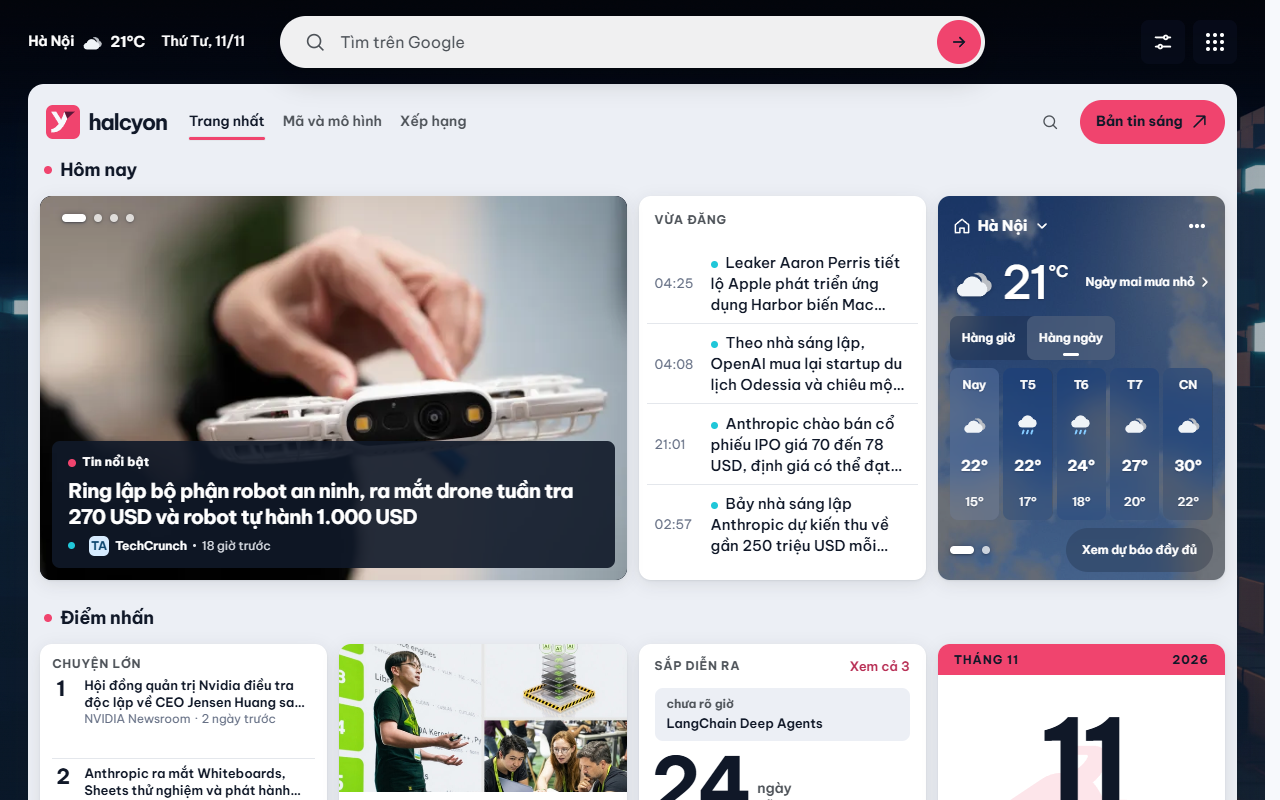
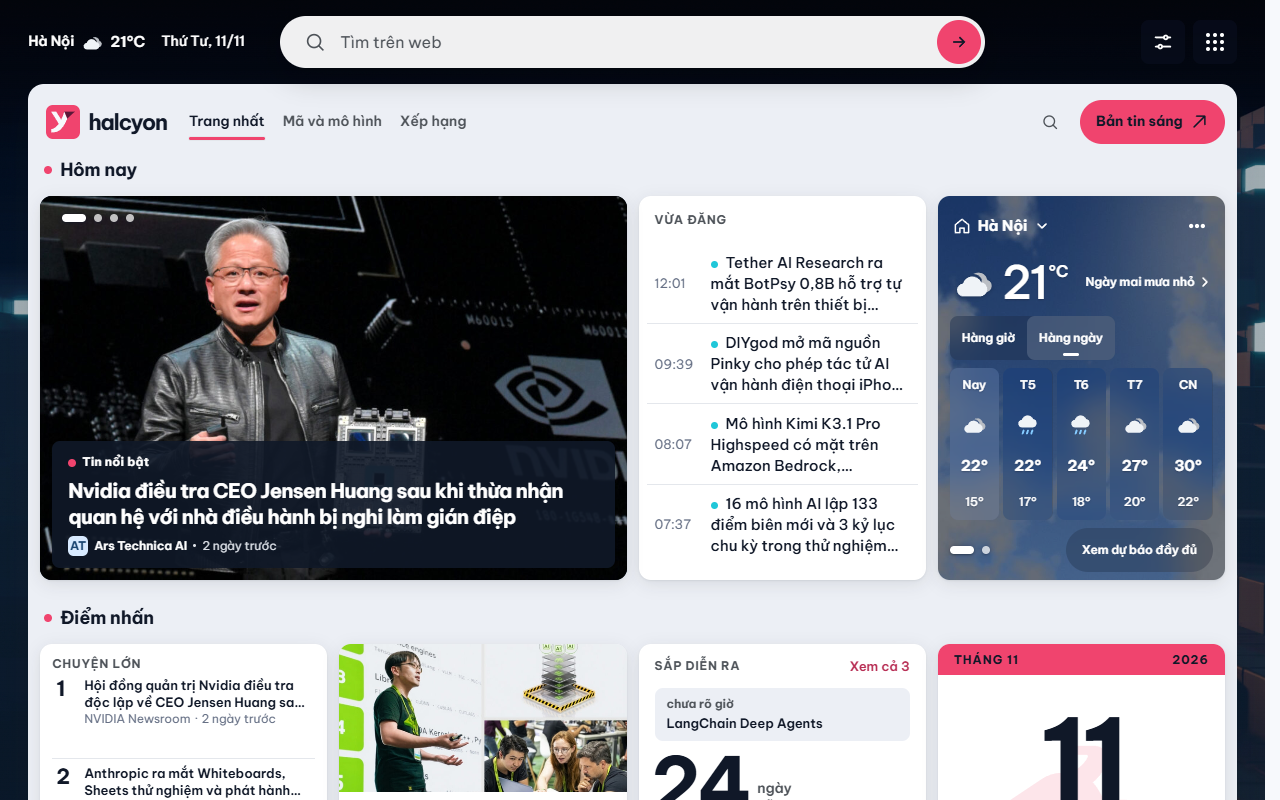
fix(extension): search with the reader's default engine via chrome.search
The Chrome Web Store rejects a new tab page whose search ignores the user's
search settings and asks such pages to use the Chrome Search API. The new
tab's box now calls chrome.search.query with CURRENT_TAB, the manifest asks
for "search" again, and the box reads "Tìm trên web" instead of naming
Google. Outside an extension page the box does nothing rather than fall back
to an engine the reader never chose.

Store texts, the privacy policy and the screenshots follow; the listing's
dark mode line points at the Tùy chỉnh menu and the data disclosure names
github.com for owner logos.

Changed region(s): [[0.0312, 0.2188, 0.7188, 0.75], [0.5625, 0.625, 0.6875, 0.6875], [0.3125, 0.0312, 0.375, 0.0625]]

diff --git a/site/chinh-sach-rieng-tu.html b/site/chinh-sach-rieng-tu.html
@@ -183,7 +183,7 @@
       <ul>
         <li><strong>Thông tin nhận dạng cá nhân (PII):</strong> Không yêu cầu tên, địa chỉ email, số điện thoại hay tài khoản cá nhân.</li>
         <li><strong>Lịch sử duyệt web (Browsing History):</strong> Tiện ích không đọc hoặc theo dõi các tab bạn mở hay trang web bạn ghé thăm.</li>
-        <li><strong>Truy vấn tìm kiếm:</strong> Ô "Tìm trên Google" trên tab mới mở trang kết quả của Google (<code>www.google.com/search</code>) ngay trong tab đó, với từ khóa bạn gõ. Từ khóa đi thẳng từ trình duyệt của bạn tới Google; Halcyon không ghi lại, không lưu và không chuyển tiếp từ khóa tìm kiếm.</li>
+        <li><strong>Truy vấn tìm kiếm:</strong> Ô "Tìm trên web" trên tab mới chuyển từ khóa bạn gõ cho Chrome qua Chrome Search API (<code>chrome.search.query</code>, quyền <code>search</code>), và Chrome tìm bằng công cụ tìm kiếm mặc định bạn đã chọn, ngay trong tab đó. Halcyon không xem, không ghi lại, không lưu và không chuyển tiếp từ khóa tìm kiếm.</li>
         <li><strong>Vị trí địa lý &amp; Thiết bị:</strong> Không thu thập tọa độ GPS hay thông tin nhận dạng phần cứng.</li>
         <li><strong>Dữ liệu tài chính, y tế hoặc giao dịch:</strong> Hoàn toàn không liên quan và không thu thập.</li>
       </ul>
@@ -203,6 +203,7 @@
       <ul>
         <li><strong><code>storage</code>:</strong> Dùng để lưu trữ bộ nhớ đệm tin tức AI và tùy chọn giao diện cục bộ trên máy bạn.</li>
         <li><strong><code>alarms</code>:</strong> Dùng để đặt lịch ngầm mỗi 30 phút đánh thức tiến trình nền làm mới bản tin tin tức, tránh chạy nền liên tục ngốn pin và RAM.</li>
+        <li><strong><code>search</code>:</strong> Chỉ dùng cho ô "Tìm trên web" trên tab mới: khi bạn gửi từ khóa, tiện ích gọi <code>chrome.search.query</code> để Chrome tìm bằng công cụ tìm kiếm mặc định của bạn, ngay trong tab đó. Halcyon không chọn, không đổi và không chuyển hướng nhà cung cấp tìm kiếm.</li>
         <li><strong>Quyền máy chủ (<code>https://radar-ai-vn.pages.dev/*</code>):</strong> Chỉ dùng để tải về dữ liệu tin tức công khai dạng JSON và hình ảnh minh họa bài viết từ máy chủ tĩnh chính thức của Halcyon.</li>
       </ul>
 
@@ -222,7 +223,7 @@
         <li><strong><code>creativecommons.org</code>:</strong> liên kết giấy phép ghi công dữ liệu Arena.</li>
         <li><strong>Máy chủ ảnh của nhà xuất bản:</strong> nhiều ảnh minh họa tin được tải thẳng từ máy chủ của nguồn tin gốc (xem mục 6).</li>
       </ul>
-      <p>Halcyon không đính kèm thông tin cá nhân hoặc lịch sử duyệt web vào các yêu cầu này. Tiện ích không thu thập, tải lên, bán hoặc chia sẻ dữ liệu cá nhân. Từ khóa tìm kiếm được gửi trực tiếp từ trình duyệt của bạn tới Google.</p>
+      <p>Halcyon không đính kèm thông tin cá nhân hoặc lịch sử duyệt web vào các yêu cầu này. Tiện ích không thu thập, tải lên, bán hoặc chia sẻ dữ liệu cá nhân. Từ khóa tìm kiếm do Chrome gửi tới công cụ tìm kiếm mặc định của bạn, không qua Halcyon.</p>
 
       <h2>6. Website hco.news: Máy Chủ, Thống Kê Truy Cập Và Ảnh Minh Họa</h2>
       <ul>
@@ -270,7 +271,7 @@
       <ul>
         <li><strong>Personally Identifiable Information (PII):</strong> No names, email addresses, phone numbers, or account registrations required.</li>
         <li><strong>Browsing History:</strong> The extension does not inspect, read, or log the websites you visit or the tabs you open.</li>
-        <li><strong>Search Queries:</strong> The "Tìm trên Google" (Search Google) field on the new tab page opens Google's results page (<code>www.google.com/search</code>) in that tab with the words you typed. The query goes straight from your browser to Google; we do not inspect, log, store, or forward your queries.</li>
+        <li><strong>Search Queries:</strong> The "Tìm trên web" (Search the web) field on the new tab page hands the words you typed to Chrome through the Chrome Search API (<code>chrome.search.query</code>, the <code>search</code> permission), and Chrome searches with your own default search engine in that tab. We do not see, log, store, or forward your queries.</li>
         <li><strong>Location &amp; Device Data:</strong> No geolocation tracking, no biometric data, and no unique hardware fingerprinting.</li>
         <li><strong>Financial or Health Data:</strong> None collected.</li>
       </ul>
@@ -290,6 +291,7 @@
       <ul>
         <li><strong><code>storage</code>:</strong> Stores the cached news snapshot and theme preferences locally in <code>chrome.storage.local</code>.</li>
         <li><strong><code>alarms</code>:</strong> Schedules a 30-minute background alarm to refresh the news feed without running a persistent background process, conserving memory and battery.</li>
+        <li><strong><code>search</code>:</strong> Used only by the new tab's "Tìm trên web" field: when you submit a query, the extension calls <code>chrome.search.query</code> so Chrome searches with your own default search engine in that tab. Halcyon does not choose, change, or redirect the search provider.</li>
         <li><strong>Host Permission (<code>https://radar-ai-vn.pages.dev/*</code>):</strong> Exclusively fetches static JSON news feeds and story illustration images from Halcyon's official Cloudflare Pages hosting.</li>
       </ul>
 
@@ -309,7 +311,7 @@
         <li><strong><code>creativecommons.org</code>:</strong> attribution license link for Arena data.</li>
         <li><strong>Publishers' image servers:</strong> many story pictures load directly from the original publisher's servers (see section 6).</li>
       </ul>
-      <p>Halcyon does not attach personal information or browsing history to these requests. The extension does not collect, upload, sell, or share personal data. Search terms are sent directly from your browser to Google.</p>
+      <p>Halcyon does not attach personal information or browsing history to these requests. The extension does not collect, upload, sell, or share personal data. Search terms are sent by Chrome to your default search engine, not through Halcyon.</p>
 
       <h2>6. The hco.news Website: Hosting, Visit Statistics, and Pictures</h2>
       <ul>

diff --git a/extension/newtab.html b/extension/newtab.html
@@ -80,7 +80,7 @@
   <symbol id="i-tune" viewBox="0 0 24 24"><path d="M4 7h9M17 7h3M4 17h3M11 17h9"/><circle cx="15" cy="7" r="2"/><circle cx="9" cy="17" r="2"/></symbol>
 </svg>
 
-<!-- The top row (owner, 09/11): the Google search with the 9 dots at its right, on the website's own top-row grid
+<!-- The top row (owner, 09/11): the web search with the 9 dots at its right, on the website's own top-row grid
      (.msn-top-in), so the row and the panel below it share their left and right edges. The seven Google shortcut icons
      are gone: the 9 dots open the same services. The weather and the calendar are cards in the panel's first row
      (thoi-tiet.js, the-lich.js); the weather and the day also sit at the top left and "Tùy chỉnh" beside the 9 dots,
@@ -88,12 +88,12 @@
 <header class="masthead msn-top" id="masthead">
   <div class="msn-top-in">
     <div class="top-now" id="top-now"></div>
-    <form id="web-search" class="web-search" role="search" aria-label="Tìm trên Google" action="https://www.google.com/search">
+    <form id="web-search" class="web-search" role="search" aria-label="Tìm trên web">
       <label class="web-field">
         <svg class="i" aria-hidden="true"><use href="#i-search"/></svg>
-        <span class="sr">Tìm trên Google</span>
-        <input id="web-query" name="q" type="search" placeholder="Tìm trên Google" autocomplete="off" enterkeyhint="search">
-        <button class="go-btn" type="submit" aria-label="Tìm trên Google"><svg class="i" aria-hidden="true"><use href="#i-arrow"/></svg></button>
+        <span class="sr">Tìm trên web</span>
+        <input id="web-query" name="q" type="search" placeholder="Tìm trên web" autocomplete="off" enterkeyhint="search">
+        <button class="go-btn" type="submit" aria-label="Tìm trên web"><svg class="i" aria-hidden="true"><use href="#i-arrow"/></svg></button>
       </label>
     </form>
     <div class="masthead-actions">

diff --git a/extension/newtab.js b/extension/newtab.js
@@ -1,10 +1,11 @@
-/* "Tìm trên Google" (captain, 07/11 18:26: "không đặt tìm kiếm web mà là tìm kiếm google luôn"): the query opens
-   Google's results in this tab, whatever the reader's default engine is. A plain link needs no permission. */
-export const googleSearchURL = query => `https://www.google.com/search?q=${encodeURIComponent(query)}`;
+/* "Tìm trên web": the query goes to the reader's own default search engine through the Chrome Search API, in this
+   tab. The Chrome Web Store rejects a new tab whose search ignores the user's search settings (Quality Guidelines,
+   checked 11/11), so the box no longer opens Google directly as it did from 07/11. Outside an extension page there is
+   no chrome.search and the box does nothing: any fallback would have to name an engine the reader never chose. */
 document.querySelector('#web-search').addEventListener('submit', event => {
   event.preventDefault();
-  const query = document.querySelector('#web-query').value.trim();
-  if (query) location.assign(googleSearchURL(query));
+  const text = document.querySelector('#web-query').value.trim();
+  if (text && globalThis.chrome?.search?.query) chrome.search.query({text, disposition: 'CURRENT_TAB'});
 });
 
 let initialSnapshotKnown = false;

diff --git a/extension/newtab.css b/extension/newtab.css
@@ -1,6 +1,6 @@
 /* The new tab's top zone above the Halcyon panel (captain, 07/11 18:03; mockup D chosen 18:26; Mẫu A 08/11 18:23):
    1. the 9 dots at the top right, with every Google app behind them;
-   2. the Google search ("Tìm trên Google", a filled field with no border and no shadow), which plays the part of MSN's
+   2. the web search ("Tìm trên web", the reader's default engine; a filled field with no border and no shadow), which plays the part of MSN's
       search bar above the panel.
    The panel below is the website home's (trang-msn.css): the logo, the sections, the news search, the morning edition,
    then the grid with the weather and the calendar. This file is extension-only. Values come from tokens.css. */

diff --git a/tests/test_extension_shell.py b/tests/test_extension_shell.py
@@ -44,7 +44,7 @@ class ExtensionShellTests(unittest.TestCase):
         manifest = json.loads((EXT / 'manifest.json').read_text(encoding='utf-8'))
         self.assertEqual(manifest['manifest_version'], 3)
         self.assertEqual(manifest['chrome_url_overrides'], {'newtab': 'newtab.html'})
-        self.assertEqual(set(manifest['permissions']), {'storage', 'alarms'})
+        self.assertEqual(set(manifest['permissions']), {'storage', 'alarms', 'search'})
         self.assertEqual(manifest['host_permissions'], [LIVE + '*'])
         self.assertEqual(manifest['background']['service_worker'], 'background.js')
         self.assertIn('tìm kiếm', manifest['description'].lower())
@@ -234,28 +234,55 @@ process.stdout.write(JSON.stringify({saved,afterOffline,afterTimeout:cache.radar
         })
 
     @unittest.skipUnless(shutil.which('node'), 'Node required for JavaScript behavior tests')
-    def test_search_goes_to_google(self):
-        # Captain, 07/11 18:26: "tìm kiếm google luôn": the query opens Google's results in this tab, whatever the
-        # reader's default engine is; an empty field does nothing.
+    def test_search_uses_the_readers_default_engine(self):
+        # The Chrome Web Store rejects a new tab whose search ignores the user's search settings, so the query goes
+        # through chrome.search.query in this tab; an empty field does nothing and the page never opens a URL itself.
         script = r'''
 import {readFileSync} from 'node:fs';
 const source = readFileSync(process.argv[1], 'utf8');
 const handlers = {}, opened = [], field = {value:'  mô hình AI & GPU  '};
+let prevented = 0;
 globalThis.document = {querySelector: selector => selector === '#web-search' ?
   {addEventListener:(_,fn) => handlers.submit=fn} : selector === '#web-query' ? field : null};
-globalThis.location = {assign:url => opened.push(url)};
-globalThis.chrome = {search:{query:() => opened.push('chrome.search')},storage:{local:{get:async () => ({radarWindow:{}})},onChanged:{addListener:fn => handlers.changed=fn}}};
+globalThis.location = {assign:url => opened.push(['location', url])};
+globalThis.chrome = {search:{query:options => opened.push(['chrome.search', options])},storage:{local:{get:async () => ({radarWindow:{}})},onChanged:{addListener:fn => handlers.changed=fn}}};
 await import('data:text/javascript;base64,' + Buffer.from(source).toString('base64'));
-handlers.submit({preventDefault(){}});
+handlers.submit({preventDefault(){ prevented++; }});
 field.value = '   ';
+handlers.submit({preventDefault(){ prevented++; }});
+process.stdout.write(JSON.stringify({opened, prevented}));
+'''
+        self.assertEqual(node(script, EXT / 'newtab.js'), {
+            'opened': [['chrome.search', {'text': 'mô hình AI & GPU', 'disposition': 'CURRENT_TAB'}]],
+            'prevented': 2,
+        })
+        html = (EXT / 'newtab.html').read_text(encoding='utf-8')
+        form = html[html.index('<form id="web-search"'):html.index('</form>', html.index('<form id="web-search"'))]
+        self.assertIn('placeholder="Tìm trên web"', form)
+        self.assertIn('aria-label="Tìm trên web"', form)
+        self.assertNotIn('action=', form)
+        self.assertNotIn('Google', form)
+        for name in ('newtab.html', 'newtab.js'):
+            self.assertNotIn('google.com/search', (EXT / name).read_text(encoding='utf-8'), name)
+        manifest = json.loads((EXT / 'manifest.json').read_text(encoding='utf-8'))
+        self.assertIn('search', manifest['permissions'])
+
+    @unittest.skipUnless(shutil.which('node'), 'Node required for JavaScript behavior tests')
+    def test_search_outside_an_extension_page_does_nothing(self):
+        # A test page has no chrome.search: the box must not fall back to an engine the reader never chose.
+        script = r'''
+import {readFileSync} from 'node:fs';
+const source = readFileSync(process.argv[1], 'utf8');
+const handlers = {}, opened = [];
+globalThis.document = {querySelector: selector => selector === '#web-search' ?
+  {addEventListener:(_,fn) => handlers.submit=fn} : selector === '#web-query' ? {value:'GPU'} : null};
+globalThis.location = {assign:url => opened.push(url)};
+globalThis.chrome = {storage:{local:{get:async () => ({radarWindow:{}})},onChanged:{addListener:() => {}}}};
+await import('data:text/javascript;base64,' + Buffer.from(source).toString('base64'));
 handlers.submit({preventDefault(){}});
 process.stdout.write(JSON.stringify(opened));
 '''
-        self.assertEqual(node(script, EXT / 'newtab.js'),
-                         ['https://www.google.com/search?q=m%C3%B4%20h%C3%ACnh%20AI%20%26%20GPU'])
-        html = (EXT / 'newtab.html').read_text(encoding='utf-8')
-        self.assertIn('placeholder="Tìm trên Google"', html)
-        self.assertIn('action="https://www.google.com/search"', html)
+        self.assertEqual(node(script, EXT / 'newtab.js'), [])
 
     @unittest.skipUnless(shutil.which('node'), 'Node required for JavaScript behavior tests')
     def test_first_cache_arrival_reloads_only_an_empty_tab(self):

diff --git a/extension/sync-site.py b/extension/sync-site.py
@@ -82,8 +82,8 @@ def adapt_html(html):
     html = replace_once(html, '<script type="module" src="feed.js"></script>',
                         '<script type="module" src="feed.js"></script>\n<script type="module" src="newtab.js"></script>\n'
                         '<link rel="stylesheet" href="newtab.css">')
-    # The new tab's rows above the panel (captain, 07/11 18:03, mockup D chosen 18:26; Mẫu A 08/11 18:23): the Google
-    # search with the 9 dots, in place of the site's top row. The site's news search moves
+    # The new tab's rows above the panel (captain, 07/11 18:03, mockup D chosen 18:26; Mẫu A 08/11 18:23): the web
+    # search (the reader's default engine, newtab.js) with the 9 dots, in place of the site's top row. The site's news search moves
     # into the panel head beside the morning edition; the brand and the edition point at the live site.
     top = re.search(r'<!-- The top row \(Mẫu A.*?</header>\n', html, re.S)
     if not top:
@@ -103,7 +103,7 @@ def adapt_html(html):
 
 # The extension's own top rows (captain, 07/11 18:03 and 18:26): they replace the site's top row (adapt_html);
 # newtab.js drives the search.
-TOP_ZONE = '''<!-- The top row (owner, 09/11): the Google search with the 9 dots at its right, on the website's own top-row grid
+TOP_ZONE = '''<!-- The top row (owner, 09/11): the web search with the 9 dots at its right, on the website's own top-row grid
      (.msn-top-in), so the row and the panel below it share their left and right edges. The seven Google shortcut icons
      are gone: the 9 dots open the same services. The weather and the calendar are cards in the panel's first row
      (thoi-tiet.js, the-lich.js); the weather and the day also sit at the top left and "Tùy chỉnh" beside the 9 dots,
@@ -111,12 +111,12 @@ TOP_ZONE = '''<!-- The top row (owner, 09/11): the Google search with the 9 dots
 <header class="masthead msn-top" id="masthead">
   <div class="msn-top-in">
     <div class="top-now" id="top-now"></div>
-    <form id="web-search" class="web-search" role="search" aria-label="Tìm trên Google" action="https://www.google.com/search">
+    <form id="web-search" class="web-search" role="search" aria-label="Tìm trên web">
       <label class="web-field">
         <svg class="i" aria-hidden="true"><use href="#i-search"/></svg>
-        <span class="sr">Tìm trên Google</span>
-        <input id="web-query" name="q" type="search" placeholder="Tìm trên Google" autocomplete="off" enterkeyhint="search">
-        <button class="go-btn" type="submit" aria-label="Tìm trên Google"><svg class="i" aria-hidden="true"><use href="#i-arrow"/></svg></button>
+        <span class="sr">Tìm trên web</span>
+        <input id="web-query" name="q" type="search" placeholder="Tìm trên web" autocomplete="off" enterkeyhint="search">
+        <button class="go-btn" type="submit" aria-label="Tìm trên web"><svg class="i" aria-hidden="true"><use href="#i-arrow"/></svg></button>
       </label>
     </form>
     <div class="masthead-actions">

diff --git a/tests/test_chrome_store.py b/tests/test_chrome_store.py
@@ -104,18 +104,31 @@ class ChromeStoreSubmissionTests(unittest.TestCase):
             with self.subTest(host=host):
                 self.assertIn(host, html, f'Privacy policy does not disclose extension host: {host}')
 
-    def test_store_texts_claim_no_permission_the_manifest_lacks(self):
-        # The search box opens www.google.com/search and the manifest asks for no "search" permission, so no store
-        # text may justify chrome.search or promise the user's default search engine.
+    def test_store_texts_match_the_search_permission(self):
+        # The search box searches with the reader's default engine through chrome.search.query (the Store's rule for
+        # new tab pages with a search), so the manifest asks for "search", permissions.md justifies it, every text
+        # that describes the box says "default search engine", and no store text still promises Google's results.
         manifest = json.loads((EXT / 'manifest.json').read_text(encoding='utf-8'))
-        self.assertNotIn('search', manifest['permissions'])
+        self.assertEqual(manifest['permissions'], ['storage', 'alarms', 'search'])
+        permissions = (STORE / 'permissions.md').read_text(encoding='utf-8')
+        self.assertIn('### 3. `search`', permissions)
+        self.assertIn('chrome.search.query', permissions)
+        submit = (STORE / 'SUBMIT.md').read_text(encoding='utf-8')
+        self.assertIn('`permissions: ["storage", "alarms", "search"]`', submit)
+        for name in ('single-purpose.txt', 'data-disclosure.md', 'listing-en.md'):
+            with self.subTest(name=name):
+                self.assertIn('default search engine', (STORE / name).read_text(encoding='utf-8'))
+        self.assertIn('công cụ tìm kiếm mặc định', (STORE / 'listing-vi.md').read_text(encoding='utf-8'))
         for name in ('SUBMIT.md', 'permissions.md', 'data-disclosure.md', 'single-purpose.txt',
                      'listing-vi.md', 'listing-en.md'):
             with self.subTest(name=name):
                 text = (STORE / name).read_text(encoding='utf-8')
-                self.assertNotIn('chrome.search', text)
-                self.assertNotIn('`search`:', text)
-                self.assertNotRegex(text.lower(), r'default search (engine|provider)|công cụ tìm kiếm mặc định')
+                self.assertNotIn('Search Google', text)
+                self.assertNotIn('Tìm trên Google', text)
+                self.assertNotIn('google.com/search', text)
+        policy = (SITE / 'chinh-sach-rieng-tu.html').read_text(encoding='utf-8')
+        self.assertNotIn('Tìm trên Google', policy)
+        self.assertNotIn('www.google.com/search', policy)
 
     def test_privacy_policy_discloses_analytics_and_publisher_pictures(self):
         # hco.news carries the beacon Cloudflare injects, and story pictures come straight from publishers' servers,

diff --git a/tests/test_tab_moi.py b/tests/test_tab_moi.py
@@ -101,8 +101,8 @@ process.stdout.write(JSON.stringify({ first: CITIES[0], url: forecastURL(21.0285
 class TopZoneTests(unittest.TestCase):
     def test_manifest_gains_no_permission_or_host(self):
         manifest = json.loads((EXT / "manifest.json").read_text(encoding="utf-8"))
-        # The same permissions as before the top zone: Open-Meteo answers with CORS and needs no host entry.
-        self.assertEqual(manifest.get("permissions", []), ["storage", "alarms"])
+        # Open-Meteo answers with CORS and needs no host entry; "search" is the web box's chrome.search.query.
+        self.assertEqual(manifest.get("permissions", []), ["storage", "alarms", "search"])
         self.assertEqual(manifest.get("host_permissions", []), ["https://radar-ai-vn.pages.dev/*"])
         self.assertNotIn("optional_permissions", manifest)
 

diff --git a/extension/store/permissions.md b/extension/store/permissions.md
@@ -1,6 +1,6 @@
 # Giải Trình Quyền Của Extension (Permissions Justification)
 
-*Sao chép từng đoạn tương ứng để dán vào các ô giải trình quyền trên Chrome Web Store Developer Dashboard (mục Privacy -> Permission justifications). Manifest chỉ xin `storage`, `alarms` và một host permission; ô tìm kiếm mở thẳng trang kết quả của Google nên không cần quyền `search`.*
+*Sao chép từng đoạn tương ứng để dán vào các ô giải trình quyền trên Chrome Web Store Developer Dashboard (mục Privacy -> Permission justifications). Manifest xin `storage`, `alarms`, `search` và một host permission; ô "Tìm trên web" tìm bằng công cụ tìm kiếm mặc định của trình duyệt qua `chrome.search.query`, nên cần quyền `search`.*
 
 ---
 
@@ -20,7 +20,15 @@ The "alarms" permission schedules one chrome.alarms task every 30 minutes that w
 
 ---
 
-### 3. Host Permission: `https://radar-ai-vn.pages.dev/*`
+### 3. `search`
+```
+The "search" permission is used only by the new tab's web search box. When the user submits a query, the page calls chrome.search.query with the typed text and disposition CURRENT_TAB, so Chrome runs the search with the user's own default search engine in the same tab. Halcyon does not choose, change, or redirect the search provider, and it does not read, log, store, or forward the query. An empty box does nothing.
+```
+*(Tiếng Việt: Quyền "search" chỉ dùng cho ô tìm kiếm web trên tab mới. Khi người dùng gửi từ khóa, trang gọi chrome.search.query với từ khóa đã gõ và disposition CURRENT_TAB, để Chrome tìm bằng công cụ tìm kiếm mặc định của chính người dùng ngay trong tab đó. Halcyon không chọn, không đổi, không chuyển hướng nhà cung cấp tìm kiếm, và không đọc, ghi, lưu hay chuyển tiếp từ khóa. Ô trống thì không làm gì.)*
+
+---
+
+### 4. Host Permission: `https://radar-ai-vn.pages.dev/*`
 ```
 This is Halcyon's own static site on Cloudflare Pages. The service worker fetches the public news snapshot data/radar-window.json from it, and the new tab loads Halcyon's other public JSON files (radar-ui.json, arena.json, field-rankings.json, radar-search.json, feed-images.json, editor-picks.json) and its pictures. Like any web request, the server receives ordinary request data such as the IP address; Halcyon attaches no personal data or browsing history.
 ```
@@ -28,4 +36,4 @@ This is Halcyon's own static site on Cloudflare Pages. The service worker fetche
 
 ### Các dịch vụ ngoài khác được tiện ích liên hệ (không cần quyền)
 
-Tab mới còn gửi yêu cầu tới: `hn.algolia.com` (tin Hacker News), `huggingface.co` (bài báo, mô hình, avatar), `avatars.githubusercontent.com` và `opengraph.githubassets.com` (ảnh GitHub), `cdn-thumbnails.huggingface.co` (ảnh Hugging Face), `i.ytimg.com` (ảnh video), `api.open-meteo.com` (thời tiết của thành phố người đọc chọn), `ssl.gstatic.com` (biểu tượng dịch vụ Google), và máy chủ ảnh của các nhà xuất bản (ảnh minh họa tin tải thẳng từ nguồn gốc). Các liên kết `www.google.com/search`, `calendar.google.com`, các ứng dụng Google và `creativecommons.org` chỉ mở khi người đọc bấm. Mỗi dịch vụ nhận dữ liệu yêu cầu thông thường như địa chỉ IP. Khai báo đầy đủ nằm trong `data-disclosure.md` và trang chính sách riêng tư.
+Tab mới còn gửi yêu cầu tới: `hn.algolia.com` (tin Hacker News), `huggingface.co` (bài báo, mô hình, avatar), `github.com` (logo chủ repo), `avatars.githubusercontent.com` và `opengraph.githubassets.com` (ảnh GitHub), `cdn-thumbnails.huggingface.co` (ảnh Hugging Face), `i.ytimg.com` (ảnh video), `api.open-meteo.com` (thời tiết của thành phố người đọc chọn), `ssl.gstatic.com` (biểu tượng dịch vụ Google), và máy chủ ảnh của các nhà xuất bản (ảnh minh họa tin tải thẳng từ nguồn gốc). Từ khóa trong ô "Tìm trên web" do Chrome gửi tới công cụ tìm kiếm mặc định của người đọc, không qua Halcyon. Các liên kết `calendar.google.com`, các ứng dụng Google và `creativecommons.org` chỉ mở khi người đọc bấm. Mỗi dịch vụ nhận dữ liệu yêu cầu thông thường như địa chỉ IP. Khai báo đầy đủ nằm trong `data-disclosure.md` và trang chính sách riêng tư.

diff --git a/extension/store/data-disclosure.md b/extension/store/data-disclosure.md
@@ -17,17 +17,18 @@ Halcyon does not collect, upload, sell, or share personal data, browsing history
 
 1. No personal information: the extension does not collect names, email addresses, location, device identifiers, credentials, or browsing history.
 2. Local storage only: the latest news snapshot and its refresh timestamp are kept in chrome.storage.local; theme, reading and saved-story state, cached Hugging Face avatar URLs, and the chosen weather city with a 30-minute forecast are kept in localStorage; the day's background picture is kept in Cache Storage. None of it is uploaded, and it is removed when the extension is uninstalled.
-3. Search: the "Search Google" box opens Google's results page (www.google.com/search) in the same tab with the words typed. The query goes straight from the browser to Google; Halcyon does not log, store, or forward it.
+3. Search: the web search box hands the typed words to Chrome through the Chrome Search API (chrome.search.query), and Chrome sends them to the user's own default search engine in the same tab. Halcyon does not see, log, store, or forward the query.
 4. External services and purpose:
    - radar-ai-vn.pages.dev (Halcyon's Cloudflare Pages site): public news data and pictures.
    - Publishers' image servers (for example platform.theverge.com, techcrunch.com, img.semafor.com): story pictures load directly from the original source.
    - hn.algolia.com (Algolia Hacker News API): live Hacker News stories.
    - huggingface.co, cdn-thumbnails.huggingface.co: daily papers, trending models, avatars, and thumbnails.
-   - avatars.githubusercontent.com, opengraph.githubassets.com: GitHub avatars and article preview images.
+   - github.com, avatars.githubusercontent.com, opengraph.githubassets.com: GitHub avatars and repository owner logos (github.com/<login>.png), and article preview images.
    - i.ytimg.com: video thumbnails.
    - api.open-meteo.com: the weather forecast for the city the reader picks from a fixed list (only that city's coordinates are sent).
    - ssl.gstatic.com: icons on the Google service buttons and in the Google apps menu.
-   - www.google.com, calendar.google.com, other Google apps, creativecommons.org: opened only when the reader clicks them.
+   - The user's default search engine: receives a query only when the user submits the web search box, sent by Chrome, not by Halcyon.
+   - calendar.google.com, other Google apps, creativecommons.org: opened only when the reader clicks them.
 ```
 *(Tiếng Việt: Halcyon không thu thập, tải lên, bán hay chia sẻ dữ liệu cá nhân, lịch sử duyệt web hay dữ liệu đo lường, và tab mới không tải công cụ thống kê nào. Trình duyệt kết nối thẳng tới các dịch vụ trên; mỗi dịch vụ nhận dữ liệu yêu cầu thông thường như địa chỉ IP. Dữ liệu bộ nhớ đệm và tùy chọn nằm trên máy người dùng.)*
 

diff --git a/extension/store/listing-vi.md b/extension/store/listing-vi.md
@@ -15,11 +15,11 @@ Halcyon biến tab mới trên trình duyệt của bạn thành một bảng ti
 
 TẠI SAO BẠN NÊN DÙNG HALCYON?
 • Cập nhật tin AI chọn lọc mỗi ngày: Tổng hợp các sự kiện công nghệ và mô hình AI nóng nhất trong 72 giờ qua được kiểm chứng độc lập bởi nhiều nguồn tin uy tín.
-• Ô "Tìm trên Google" ngay trên tab mới: gõ từ khóa là mở thẳng trang kết quả của Google, không qua máy chủ trung gian và không can thiệp kết quả tìm kiếm.
+• Ô "Tìm trên web" ngay trên tab mới: gõ từ khóa là tìm bằng công cụ tìm kiếm mặc định bạn đã chọn trong trình duyệt, không qua máy chủ trung gian và không can thiệp kết quả tìm kiếm.
 • Thời tiết, lịch âm và các dịch vụ Google quen dùng: xem nhanh dự báo của thành phố bạn chọn, ngày âm lịch và mở Gmail, Drive, Lịch chỉ với một cú bấm.
 • Đọc tin ngoại tuyến (Offline Ready): Tự động lưu trữ bản tin gần nhất vào bộ nhớ máy, giúp bạn có thể mở tab mới và theo dõi tin tức ngay cả khi mất kết nối mạng.
 • Bảng xếp hạng mô hình & kho mã AI: Theo dõi các bảng xếp hạng mô hình AI hàng đầu (Arena) và các repo GitHub AI đang nổi bật.
-• Giao diện tối giản, hỗ trợ Dark Mode: Thiết kế chuẩn mực, nhẹ nhàng, hỗ trợ chuyển đổi giao diện sáng/tối tự động hoặc thủ công.
+• Giao diện tối giản, hỗ trợ Dark Mode: Thiết kế chuẩn mực, nhẹ nhàng, giao diện sáng/tối theo hệ thống hoặc tự chọn trong menu Tùy chỉnh.
 • Hỗ trợ phím tắt: Duyệt tin tức nhanh chóng bằng bàn phím (J/K để chuyển tin, O để mở bài gốc, S để lưu tin, / để tìm trong tin Halcyon, ? để xem toàn bộ phím tắt).
 
 CAM KẾT VỀ QUYỀN RIÊNG TƯ VÀ BẢO MẬT:
